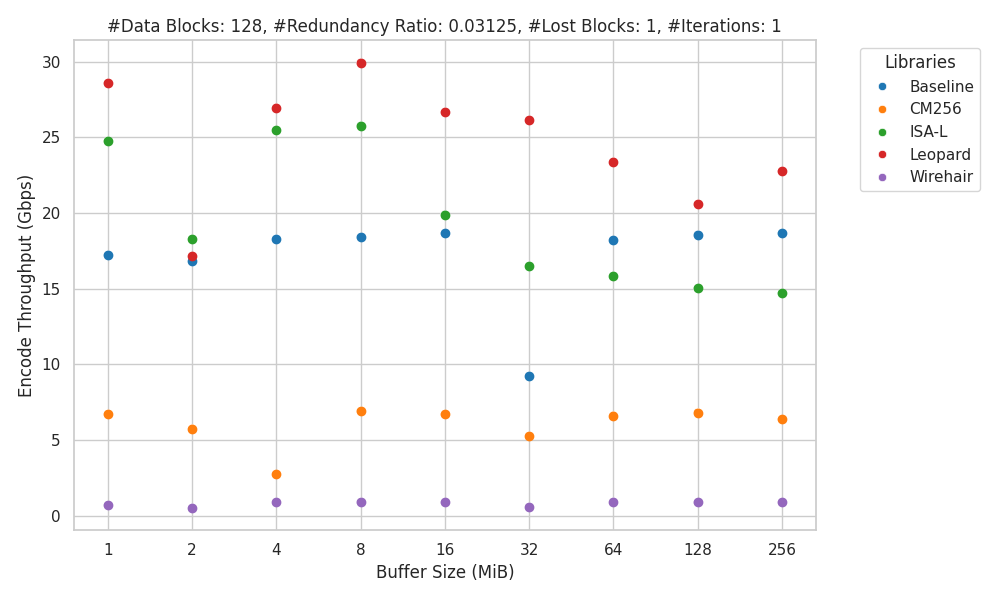
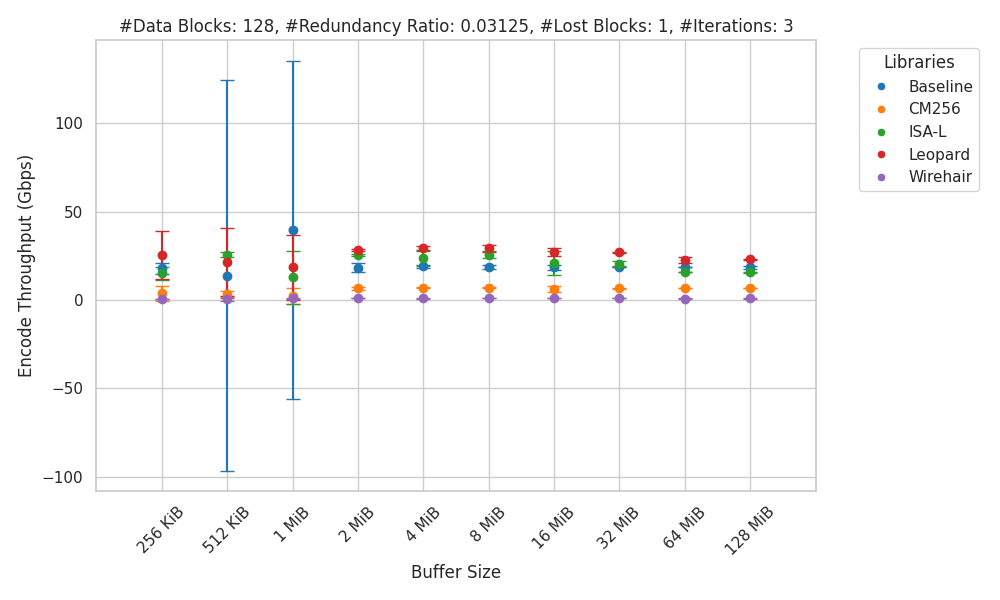
Fixed errorbar plotting, adjusted benchmark parameters, adjusted x-ticks

diff --git a/scripts/plot_benchmark_results.py b/scripts/plot_benchmark_results.py
@@ -21,8 +21,8 @@ def get_plot_title(df: pd.DataFrame, plot_id: int) -> str:
   first_row = df.iloc[0]
   titles = {
     0: f"#Data Blocks: {first_row['num_data_blocks']}, #Redundancy Ratio: {first_row['redundancy_ratio']}, #Lost Blocks: {first_row['num_lost_blocks']}, #Iterations: {first_row['num_iterations']}",
-    1: f"Buffer Size: {first_row['tot_data_size_MiB']} MiB, #Data Blocks: {first_row['num_data_blocks']}, #Lost Blocks: {first_row['num_lost_blocks']}, #Iterations: {first_row['num_iterations']}",
-    2: f"Buffer Size: {first_row['tot_data_size_MiB']} MiB, #Data Blocks: {first_row['num_data_blocks']}, #Parity Blocks: {int(first_row['num_parity_blocks'])}, #Iterations: {first_row['num_iterations']}"
+    1: f"Buffer Size: {first_row['tot_data_size_KiB']} KiB, #Data Blocks: {first_row['num_data_blocks']}, #Lost Blocks: {first_row['num_lost_blocks']}, #Iterations: {first_row['num_iterations']}",
+    2: f"Buffer Size: {first_row['tot_data_size_KiB']} KiB, #Data Blocks: {first_row['num_data_blocks']}, #Parity Blocks: {int(first_row['num_parity_blocks'])}, #Iterations: {first_row['num_iterations']}"
   }
   return titles.get(plot_id, "ERROR: Invalid plot_id")
 
@@ -36,16 +36,23 @@ def make_scatter_plot(dfs: dict[int, pd.DataFrame], x_col: str, y_col: str, x_la
   sns.scatterplot(data=df, x=x_col, y=y_col, hue="name", palette="tab10")
   plt.xlabel(x_label, fontsize=12)
   plt.ylabel(y_label, fontsize=12)
-  plt.xscale("log")
+  plt.xscale("log", base=2)
   plt.yscale("linear")
   plt.legend(title="Libraries", bbox_to_anchor=(1.05, 1), loc="upper left")
-  plt.title(get_plot_title(df, plot_id), fontsize=12)
+  plt.title(get_plot_title(df, plot_id), fontsize=12)  
 
   # Set proper x-ticks
   ax = plt.gca()
   x_ticks = sorted(df[x_col].unique())
-  ax.set_xticks(x_ticks)
-  ax.set_xticklabels([f"{x}" for x in x_ticks])
+  if (x_col == "tot_data_size_KiB"):
+    x_ticklabels = [(lambda x: f"{x//1024} MiB" if x >= 1024 else f"{x} KiB")(x) for x in x_ticks]
+    rot = 45
+  else:
+    x_ticklabels = [f"{x}" for x in x_ticks]
+    rot = 0
+  ax.set_xticks(ticks=x_ticks, labels=x_ticklabels, rotation=rot)
+
+  ax.set_xlim(left=x_ticks[0]/2, right=x_ticks[-1]*2)
 
   # Plot confidence intervals (has to be done with a loop, to ensure the correct color)
   for name, group in df.groupby("name"):
@@ -71,18 +78,16 @@ if __name__ == "__main__":
   # Compute additional columns 
   df["encode_time_ms"] = df["encode_time_ns"] / 1e6
   df["decode_time_ms"] = df["decode_time_ns"] / 1e6
-  df["tot_data_size_MiB"] = df["tot_data_size_B"] // (1024 * 1024)
-
-
+  df["tot_data_size_KiB"] = df["tot_data_size_B"] // 1024
 
 
   # Compute confidence intervals
   # CI = mean +/- z * (stddev / sqrt(n))
-  z = 1.96 # 95% confidence interval
+  z = 3.291 # 99.9% confidence interval
 
   for col in ["encode_time_ns", "decode_time_ns", "encode_throughput_Gbps", "decode_throughput_Gbps"]:
-    df[f"{col}_lower"] = df[col] - z * (df[f"{col}_stddev"] / np.sqrt(df["num_iterations"]))
-    df[f"{col}_upper"] = df[col] + z * (df[f"{col}_stddev"] / np.sqrt(df["num_iterations"]))
+    df[f"{col}_lower"] = z * (df[f"{col}_stddev"] / np.sqrt(df["num_iterations"]))
+    df[f"{col}_upper"] = z * (df[f"{col}_stddev"] / np.sqrt(df["num_iterations"]))
 
   # Convert the time Confidence interval columns to milliseconds
   for col in ["encode_time", "decode_time"]:
@@ -90,19 +95,17 @@ if __name__ == "__main__":
     df[f"{col}_ms_lower"] = df[f"{col}_ms_lower"] / 1e6
     df[f"{col}_ms_upper"] = df[f"{col}_ms_upper"] / 1e6
 
-  # df = df[df["name"] != "CM256"]
-  # print(df[df["decode_time_ms_lower"] < 0])
 
   dfs = {plot_id: group for plot_id, group in df.groupby("plot_id")}
 
   # Define plot parameters
   plot_params = [
     # X: Buffer Size, Y: Encode/Decode Time
-    ("tot_data_size_MiB", "encode_time_ms", "Buffer Size (MiB)", "Encode Time (ms)", "buffersize_vs_encodetime.png", 0),
-    ("tot_data_size_MiB", "decode_time_ms", "Buffer Size (MiB)", "Decode Time (ms)", "buffersize_vs_decodetime.png", 0),
+    ("tot_data_size_KiB", "encode_time_ms", "Buffer Size", "Encode Time (ms)", "buffersize_vs_encodetime.png", 0),
+    ("tot_data_size_KiB", "decode_time_ms", "Buffer Size", "Decode Time (ms)", "buffersize_vs_decodetime.png", 0),
     # X: Buffer Size, Y: Encode/Decode Throughput
-    ("tot_data_size_MiB", "encode_throughput_Gbps", "Buffer Size (MiB)", "Encode Throughput (Gbps)", "buffersize_vs_encodethroughput.png", 0),
-    ("tot_data_size_MiB", "decode_throughput_Gbps", "Buffer Size (MiB)", "Decode Throughput (Gbps)", "buffersize_vs_decodethroughput.png", 0),
+    ("tot_data_size_KiB", "encode_throughput_Gbps", "Buffer Size", "Encode Throughput (Gbps)", "buffersize_vs_encodethroughput.png", 0),
+    ("tot_data_size_KiB", "decode_throughput_Gbps", "Buffer Size", "Decode Throughput (Gbps)", "buffersize_vs_decodethroughput.png", 0),
 
     # X: Num Parity Blocks, Y: Encode/Decode Time
     ("num_parity_blocks", "encode_time_ms", "#Parity Blocks", "Encode Time (ms)", "parityblocks_vs_encodetime.png", 1),

diff --git a/src/main.cpp b/src/main.cpp
@@ -20,15 +20,15 @@
 constexpr const char* OUTPUT_FILE_PATH = "../results/raw/";
 
 #if RUNNING_ON_DOCKER
-  constexpr uint32_t FIXED_NUM_ITERATIONS = 1;
-  constexpr uint64_t FIXED_BUFFER_SIZE = 67108864; ///< 64 MiB
+  constexpr uint32_t FIXED_NUM_ITERATIONS = 10;
+  constexpr uint64_t FIXED_BUFFER_SIZE = 4194304; ///< 4 MiB
 
-  const std::vector<uint64_t> VAR_BUFFER_SIZE = { 1048576, 2097152, 4194304, 8388608, 16777216, 33554432, 67108864, 134217728, 268435456 };
+  const std::vector<uint64_t> VAR_BUFFER_SIZE = { 262144, 524288, 1048576, 2097152, 4194304, 8388608, 16777216, 33554432, 67108864, 134217728 };
 #else
   constexpr uint32_t FIXED_NUM_ITERATIONS = 10000;
-  constexpr uint64_t FIXED_BUFFER_SIZE = 1073741824; ///< 1 GiB
+  constexpr uint64_t FIXED_BUFFER_SIZE = 4194304; ///< 4 MiB
 
-  const std::vector<uint64_t> VAR_BUFFER_SIZE = { 1048576, 2097152, 4194304, 8388608, 16777216, 33554432, 67108864, 134217728, 268435456, 536870912, 1073741824, 2147483648, 4294967296, 8589934592 };
+  const std::vector<uint64_t> VAR_BUFFER_SIZE = { 262144, 524288, 1048576, 2097152, 4194304, 8388608, 16777216, 33554432, 67108864, 134217728};
 #endif
 
 /// Constants that are the same regardless where the code is run

diff --git a/src/benchmark_reporters.cpp b/src/benchmark_reporters.cpp
@@ -74,16 +74,16 @@ void BenchmarkCSVReporter::ReportRuns(const std::vector<Run>& runs) {
   }
 }
 
-bool BenchmarkCSVReporter::ReportContext(const Context& context) { return true; }
+bool BenchmarkCSVReporter::ReportContext(const Context& _) { return true; }
 
 
 
 
-BenchmarkProgressReporter::BenchmarkProgressReporter(int num_runs) : bar_(num_runs, true, std::cout) {}
+BenchmarkProgressReporter::BenchmarkProgressReporter(int num_runs) : bar_(num_runs, std::cout) {}
 BenchmarkProgressReporter::~BenchmarkProgressReporter() {}
 void BenchmarkProgressReporter::ReportRuns(const std::vector<Run>& runs) {
-  for (const auto& run : runs) {
+  for (const auto& _ : runs) {
     bar_.update();
   }
 }
-bool BenchmarkProgressReporter::ReportContext(const Context& context) { return true; }
+bool BenchmarkProgressReporter::ReportContext(const Context& _) { return true; }

diff --git a/include/progressbar.h b/include/progressbar.h
@@ -16,7 +16,7 @@ public:
   ProgressBar (ProgressBar&&) = delete;
   ProgressBar& operator=(ProgressBar&&) = delete;
 
-  inline ProgressBar(int n_iter, bool showbar=true, std:: ostream& out=std::cerr);
+  inline ProgressBar(int n_iter, std:: ostream& out=std::cerr);
 
   inline void reset();
   inline void update();
@@ -26,7 +26,6 @@ private:
   int progress;
   int n_cycles;
   int last_perc;
-  bool do_show_bar;
   bool update_is_called;
 
   std::string done_char;
@@ -39,11 +38,10 @@ private:
   std::ostream& output;
 };
 
-inline ProgressBar::ProgressBar(int n_iter, bool showbar, std::ostream& out) :
+inline ProgressBar::ProgressBar(int n_iter, std::ostream& out) :
   progress(0),
   n_cycles(n_iter),
   last_perc(0),
-  do_show_bar(showbar),
   update_is_called(false),
   done_char("█"),
   todo_char(" "),
